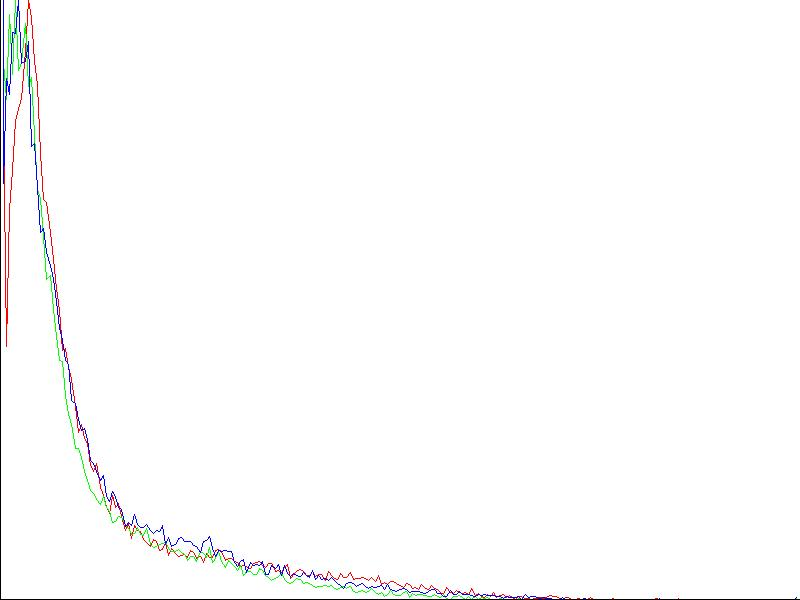
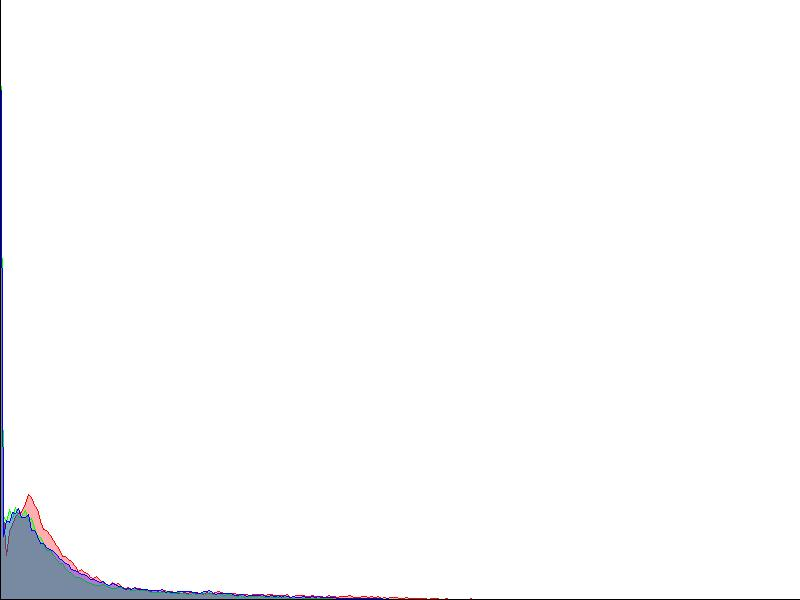
Histograma combinado, y relleno de colores

Changed region(s): [[0.0, 0.72, 0.75, 1.0], [0.0, 0.0, 0.1562, 0.87], [0.8125, 0.99, 0.8438, 1.0]]

diff --git a/src/Histograma.java b/src/Histograma.java
@@ -83,9 +83,20 @@ public class Histograma {
             float escalaY2 = (float) altoHisto / max2;
             float escalaY3 = (float) altoHisto / max3;
 
+            Polygon polyR = new Polygon();
+            polyR.addPoint(0, altoHisto);
+            for (int i = 0; i < histoR.length; i++) {
+                polyR.addPoint((int) (escalaX * i), altoHisto - (int) (escalaY * histoR[i]));
+            }
+            polyR.addPoint((int) (escalaX * 255), altoHisto);
+
+            grR.setColor(new Color(255, 0, 0, 80));
+            grR.fillPolygon(polyR);
+            grC.setColor(new Color(255, 0, 0, 80));
+            grC.fillPolygon(polyR);
+
             grR.setColor(Color.RED);
             grC.setColor(Color.RED);
-
             for (int i = 1; i < histoR.length; i++) {
                 int x1 = (int) (escalaX * (i - 1));
                 int y1 = altoHisto - (int) (escalaY * histoR[i - 1]);
@@ -95,9 +106,20 @@ public class Histograma {
                 grC.drawLine(x1, y1, x2, y2);
             }
 
+            Polygon polyG = new Polygon();
+            polyG.addPoint(0, altoHisto);
+            for (int i = 0; i < histoG.length; i++) {
+                polyG.addPoint((int) (escalaX * i), altoHisto - (int) (escalaY2 * histoG[i]));
+            }
+            polyG.addPoint((int) (escalaX * 255), altoHisto);
+
+            grG.setColor(new Color(0, 255, 0, 80));
+            grG.fillPolygon(polyG);
+            grC.setColor(new Color(0, 255, 0, 80));
+            grC.fillPolygon(polyG);
+
             grG.setColor(Color.GREEN);
             grC.setColor(Color.GREEN);
-
             for (int i = 1; i < histoG.length; i++) {
                 int x1 = (int) (escalaX * (i - 1));
                 int y1 = altoHisto - (int) (escalaY2 * histoG[i - 1]);
@@ -107,9 +129,20 @@ public class Histograma {
                 grC.drawLine(x1, y1, x2, y2);
             }
 
+            Polygon polyB = new Polygon();
+            polyB.addPoint(0, altoHisto);
+            for (int i = 0; i < histoB.length; i++) {
+                polyB.addPoint((int) (escalaX * i), altoHisto - (int) (escalaY3 * histoB[i]));
+            }
+            polyB.addPoint((int) (escalaX * 255), altoHisto);
+
+            grB.setColor(new Color(0, 0, 255, 80));
+            grB.fillPolygon(polyB);
+            grC.setColor(new Color(0, 0, 255, 80));
+            grC.fillPolygon(polyB);
+
             grB.setColor(Color.BLUE);
             grC.setColor(Color.BLUE);
-
             for (int i = 1; i < histoB.length; i++) {
                 int x1 = (int) (escalaX * (i - 1));
                 int y1 = altoHisto - (int) (escalaY3 * histoB[i - 1]);
@@ -150,11 +183,10 @@ public class Histograma {
 
     private static int maximo(int[] h) {
 
-        // Ignoramos el 0 absoluto (negro) que en imágenes espaciales es gigante y achata el gráfico
-        int aux = h[1];
-        int indice = 1;
+        int aux = h[0];
+        int indice = 0;
 
-        for (int i = 1; i < h.length; i++) {
+        for (int i = 0; i < h.length; i++) {
 
             if (h[i] > aux) {
 
